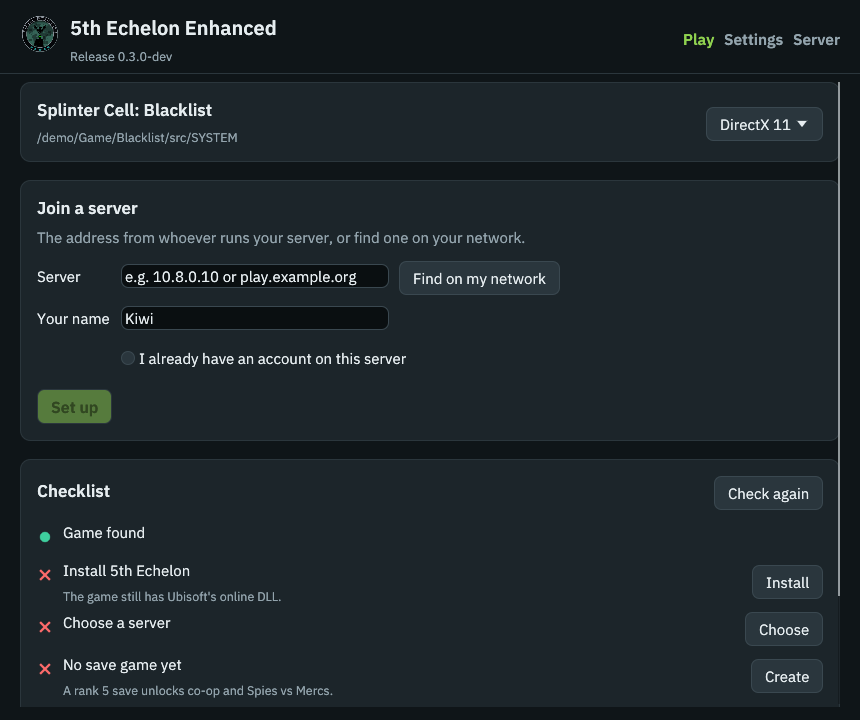
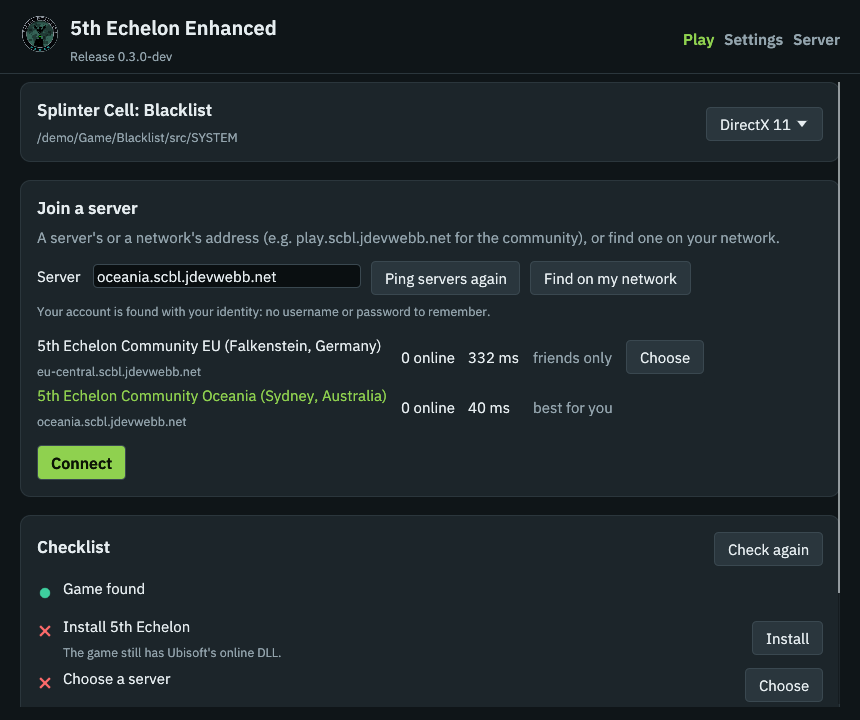
New launcher screenshots, and the fixes taking them turned up
Screenshots (docs/screenshots): the Play screen with the community
network's servers pinged, the Server screen with players signed in, Settings,
and the connection test with all five checks.

Fixes:
- Play: the server directory fitted no window under 1000 px (its address
  column pushed the card past the edge); the address is now under the name.
- Server screen: service.toml is read again before a start, so changes made
  by hand while the launcher is open aren't overwritten.
- The admin player list leaves out accounts nobody can sign in to
  (upstream's disabled sample accounts).
- Wording: Sign-up for tools (not one-click accounts), Connect (not Set up)
  in the checklist and messages.
- testbot load: --names, to name the players.

diff --git a/launcher/src/play.rs b/launcher/src/play.rs
@@ -1,4 +1,4 @@
-//! The Play screen: join a server (one-click setup), see what's ready, fix
+//! The Play screen: join a server (Connect), see what's ready, fix
 //! what isn't, and start the game.
 
 use std::net::IpAddr;
@@ -364,12 +364,15 @@ fn directory_list(play: &mut Play, ui: &mut egui::Ui) {
     }
     let best = setup::directory::best(servers);
     let mut pick = None;
-    egui::Grid::new("directory").num_columns(6).striped(true).spacing([14.0, 6.0]).show(ui, |ui| {
+    // The address under each name, so the list fits the window's default width.
+    egui::Grid::new("directory").num_columns(5).striped(true).spacing([14.0, 6.0]).show(ui, |ui| {
         for (i, (s, ping)) in servers.iter().enumerate() {
             let chosen = play.server.trim() == s.host;
             let name = if s.region.is_empty() { s.name.clone() } else { format!("{} ({})", s.name, s.region) };
-            ui.label(if chosen { RichText::new(name).color(theme::ACCENT) } else { RichText::new(name) });
-            ui.label(theme::muted(s.host.as_str()));
+            ui.vertical(|ui| {
+                ui.add(egui::Label::new(if chosen { RichText::new(name).color(theme::ACCENT) } else { RichText::new(name) }).extend());
+                ui.add(egui::Label::new(theme::muted(s.host.as_str()).small()).extend());
+            });
             ui.label(format!("{} online", s.players_online));
             ui.label(ping.map_or_else(|| String::from("no answer"), |ms| format!("{ms} ms")));
             ui.label(theme::muted(match (best == Some(i), s.friends_mode.as_str()) {
@@ -597,7 +600,7 @@ fn fix_label(fix: Fix) -> &'static str {
         Fix::FindGame => "Find",
         Fix::InstallClient => "Install",
         Fix::ChooseServer => "Choose",
-        Fix::SetUpAccount => "Set up",
+        Fix::SetUpAccount => "Connect",
         Fix::PinAdapter => "Pin",
         Fix::CreateSave => "Create",
         Fix::RaiseSave => "Raise to rank 5",

diff --git a/launcher/src/server.rs b/launcher/src/server.rs
@@ -110,6 +110,13 @@ impl Server {
     /// Writes the addresses and switches into `service.toml` and starts the
     /// server. It prints its admin key on start (`--launcher`).
     fn start(&mut self, ctx: &egui::Context, notices: &mut Notices) {
+        // Read again first: changes made by hand while the launcher was open stay.
+        if let Some(path) = self.exe.as_ref().map(|e| e.with_file_name("service.toml")).filter(|p| p.exists()) {
+            match ServerConfig::load_from_file(&path) {
+                Ok(fresh) => self.cfg = Some(fresh),
+                Err(e) => return notices.error(format!("{}: {e}", path.display())),
+            }
+        }
         let (Some(exe), Some(cfg)) = (self.exe.clone(), self.cfg.as_mut()) else { return };
         let ip = self.listen.unwrap_or(IpAddr::from([0, 0, 0, 0]));
         let public = match self.public_ip.trim() {
@@ -296,8 +303,8 @@ fn local_server(server: &mut Server, notices: &mut Notices, ctx: &egui::Context,
                     ui.checkbox(&mut api.info, "Server info");
                     ui.checkbox(&mut api.presence, "Who's online")
                         .on_hover_text("Shares every username and what online players are doing.");
-                    ui.checkbox(&mut api.accounts, "One-click accounts")
-                        .on_hover_text("Anyone who can reach port 80 can create an account (rate-limited).");
+                    ui.checkbox(&mut api.accounts, "Sign-up for tools")
+                        .on_hover_text("Lets tools create accounts through /api/register (rate-limited). Refused when every account needs an identity.");
                     ui.checkbox(&mut api.unhandled, "Unhandled calls (development)");
                 });
             }

diff --git a/tools/testbot/src/load.rs b/tools/testbot/src/load.rs
@@ -53,6 +53,9 @@ pub struct Options {
     pub connect: usize,
     /// Average seconds between a player's actions.
     pub activity: f64,
+    /// Names for the players, in order (`--names Kiwi,Fisher`), e.g. for
+    /// screenshots; the rest are named Load<run>_<n>.
+    pub names: Vec<String>,
 }
 
 impl Default for Options {
@@ -66,6 +69,7 @@ impl Default for Options {
             duration: Duration::from_secs(60),
             connect: 32,
             activity: 10.0,
+            names: Vec::new(),
         }
     }
 }
@@ -86,6 +90,7 @@ impl Options {
                 "--duration" => o.duration = Duration::from_secs(n()?),
                 "--connect" => o.connect = n()?.max(1) as usize,
                 "--activity" => o.activity = value.parse().map_err(|_| eyre!("--activity: {value:?} isn't a number"))?,
+                "--names" => o.names = value.split(',').map(|n| n.trim().to_string()).filter(|n| !n.is_empty()).collect(),
                 other => return Err(eyre!("unknown load option {other}")),
             }
         }
@@ -183,9 +188,9 @@ pub async fn run(server: IpAddr, o: Options) -> Result<()> {
     let mut joins = Vec::new();
     for i in 0..o.players {
         let (gate, stats) = (Arc::clone(&gate), Arc::clone(&stats));
+        let name = o.names.get(i).cloned().unwrap_or_else(|| format!("Load{run_id}_{i}"));
         joins.push(tokio::spawn(async move {
             let _permit = gate.acquire().await.ok()?;
-            let name = format!("Load{run_id}_{i}");
             let t = Instant::now();
             let result = async {
                 Bot::register(server, &name, "load-test-password").await?;

diff --git a/dedicated_server/src/storage/mod.rs b/dedicated_server/src/storage/mod.rs
@@ -519,10 +519,14 @@ impl Storage {
         Ok(())
     }
 
+    /// Players' accounts, for the admin list: not the server's own logins, nor
+    /// upstream's sample accounts (no credentials: nobody can sign in to them).
     pub async fn list_users_async(&self) -> Result<Vec<User>> {
-        Ok(sqlx::query_as("SELECT id, username, ubi_id, is_online FROM users WHERE ubi_id IS NOT NULL")
-            .fetch_all(&self.pool)
-            .await?)
+        Ok(
+            sqlx::query_as("SELECT id, username, ubi_id, is_online FROM users WHERE ubi_id IS NOT NULL AND (password IS NOT NULL OR password_hash IS NOT NULL)")
+                .fetch_all(&self.pool)
+                .await?,
+        )
     }
 
     /// Publishes the game session a player is currently in, or clears it when `session_id`

diff --git a/setup/src/diagnose.rs b/setup/src/diagnose.rs
@@ -217,7 +217,7 @@ pub fn checklist(f: &Facts) -> Vec<Check> {
             Some(AccountFact::Ok(name)) => Check::new("account", Status::Ok, format!("Signed in as {name}"), "", None),
             Some(AccountFact::Refused(why)) => Check::new("account", Status::Fail, "Account refused", why.clone(), Some(Fix::SetUpAccount)),
             Some(AccountFact::Unknown(why)) => Check::new("account", Status::Warn, "Couldn't check the account", why.clone(), None),
-            Some(AccountFact::None) | None => Check::new("account", Status::Fail, "Set up an account", "", Some(Fix::SetUpAccount)),
+            Some(AccountFact::None) | None => Check::new("account", Status::Fail, "No account on this server yet", "Connect finds yours, or makes one.", Some(Fix::SetUpAccount)),
         });
     }
 

diff --git a/launcher/src/flow.rs b/launcher/src/flow.rs
@@ -349,7 +349,7 @@ pub fn run_setup(plan: &Plan, bundled: Option<&[u8]>, log: &Log) -> Result<Done,
 pub fn rename(game_dir: &Path, profile_name: &str, new_name: &str) -> Result<String, String> {
     let mut cfg = Config::load(game_dir);
     let profile = cfg.profile(profile_name).cloned().ok_or("That server isn't set up any more.")?;
-    let password = profile.user.secret().ok_or("The saved password can't be read here; set up the server again.")?;
+    let password = profile.user.secret().ok_or("The saved password can't be read here; press Connect on the server again.")?;
     let new_name = new_name.trim().to_string();
     let info = setup::server_info::fetch(&profile.server, Duration::from_secs(4));
     if !info.is_some_and(|i| i.features.iter().any(|f| f == "rename")) {

diff --git a/launcher/src/settings.rs b/launcher/src/settings.rs
@@ -446,7 +446,7 @@ fn identity_section(settings: &mut Settings, notices: &mut Notices, ui: &mut egu
             match setup::player_identity::import(&settings.identity_import).and_then(|identity| setup::player_identity::save(&identity).map(|()| identity)) {
                 Ok(identity) => {
                     notices.info(format!(
-                        "This PC now uses the identity {}. Set up each server again to sign in with it.",
+                        "This PC now uses the identity {}. Press Connect on each server again to sign in with it.",
                         identity::short(&identity.global_id())
                     ));
                     settings.identity_import.clear();

diff --git a/README.md b/README.md
@@ -109,7 +109,7 @@ You need **Splinter Cell: Blacklist on PC** (Steam or Ubisoft Connect) and **Win
 4. **Press Play.**
 
 <p align="center">
-  <img src="./docs/screenshots/launcher-play.png" width="640" alt="The launcher's Play screen: the game found, the join form, and the checklist">
+  <img src="./docs/screenshots/launcher-play.png" width="640" alt="The launcher's Play screen: the game found, the join form with the community network's servers and your ping to each, and the checklist">
 </p>
 
 **What Connect does for you:**
@@ -161,7 +161,7 @@ Invites and friend requests also pop up as notifications. Friend lists, blocking
 3. **The game's log** is `bl-tracing.log` in the game folder; the previous game's is `bl-tracing.prev.log`. Include it when you ask for help.
 
 <p align="center">
-  <img src="./docs/screenshots/launcher-connection-test.png" width="560" alt="The connection test: config server, API, game service and direct connection all passing">
+  <img src="./docs/screenshots/launcher-connection-test.png" width="560" alt="The connection test: config server, API and account, game service sign-in, direct connection and the internet play helper all passing">
 </p>
 
 ### Antivirus warnings

diff --git a/docs/load-testing.md b/docs/load-testing.md
@@ -21,6 +21,7 @@ CPUS=2 MEMORY=2g build/build.sh load --players 1000 --relayed 20 --duration 120
 | `--duration` | 60 | seconds of play after everyone has signed in |
 | `--connect` | 32 | sign-ins at a time |
 | `--activity` | 10 | average seconds between a player's actions |
+| `--names` | | names for the players, in order (`Kiwi,Fisher,…`); the rest are numbered |
 | `CPUS`, `MEMORY` | 1, 1g | the server container's limits |
 
 ## What it reports
